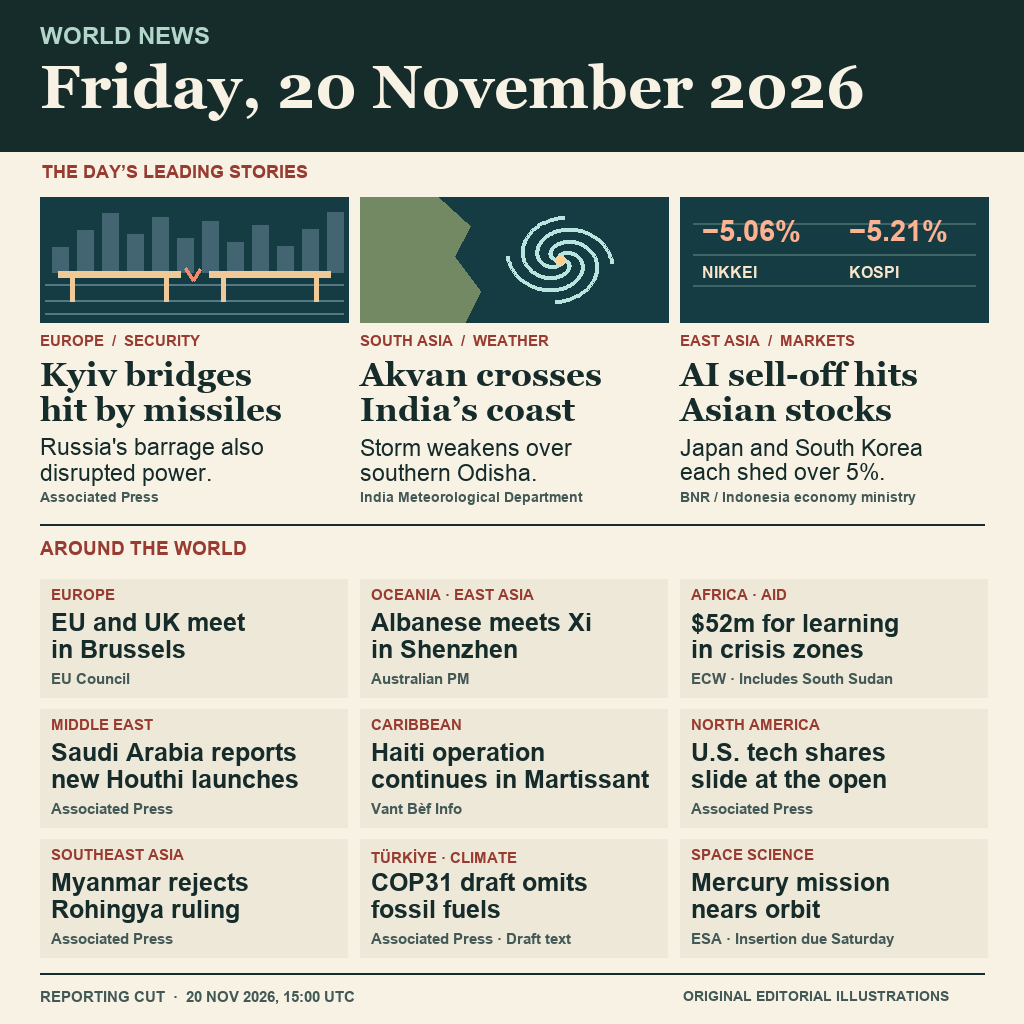
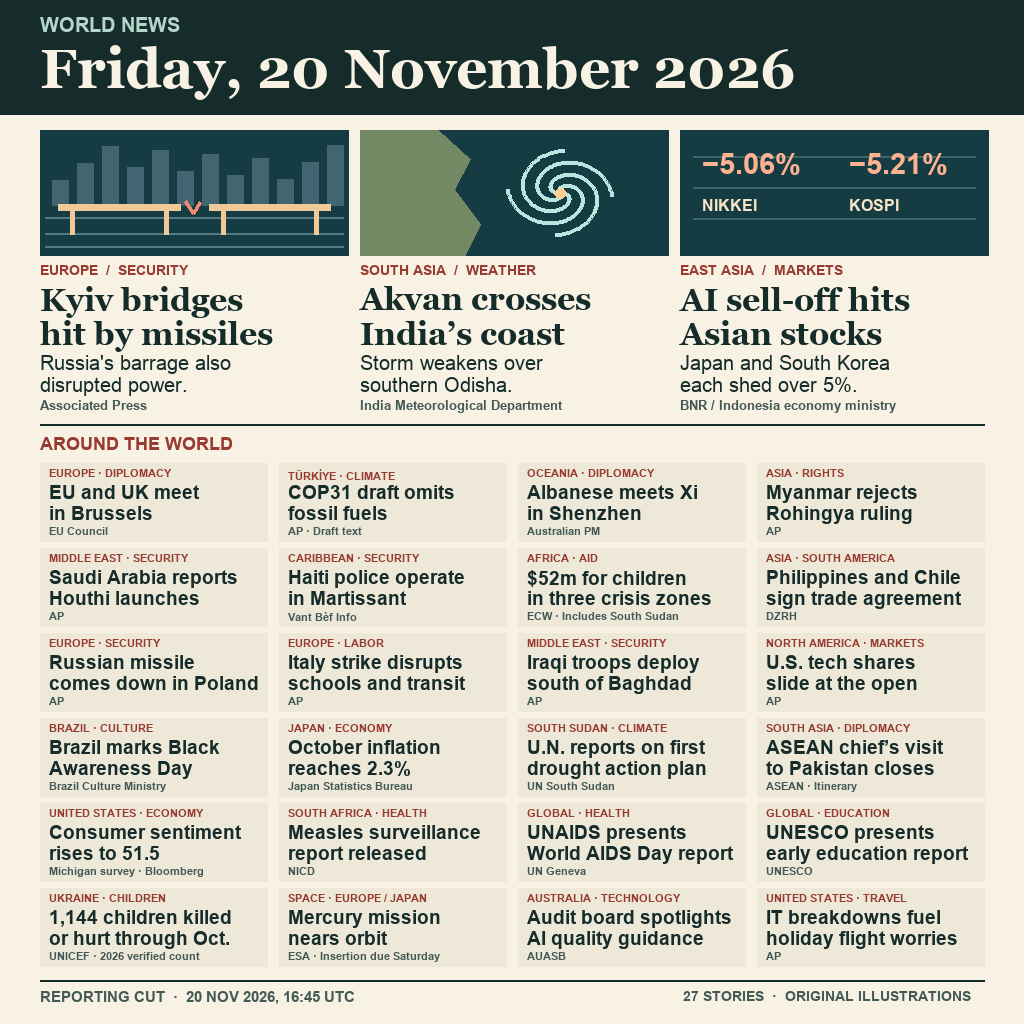
Expand the illustrated daily edition to 27 sourced stories

diff --git a/render.py b/render.py
@@ -75,39 +75,53 @@ leads = [
 ]
 
 briefs = [
-    ("EUROPE", ["EU and UK meet", "in Brussels"], "EU Council"),
-    ("OCEANIA · EAST ASIA", ["Albanese meets Xi", "in Shenzhen"], "Australian PM"),
-    ("AFRICA · AID", ["$52m for learning", "in crisis zones"], "ECW · Includes South Sudan"),
-    ("MIDDLE EAST", ["Saudi Arabia reports", "new Houthi launches"], "Associated Press"),
-    ("CARIBBEAN", ["Haiti operation", "continues in Martissant"], "Vant Bèf Info"),
-    ("NORTH AMERICA", ["U.S. tech shares", "slide at the open"], "Associated Press"),
-    ("SOUTHEAST ASIA", ["Myanmar rejects", "Rohingya ruling"], "Associated Press"),
-    ("TÜRKİYE · CLIMATE", ["COP31 draft omits", "fossil fuels"], "Associated Press · Draft text"),
-    ("SPACE SCIENCE", ["Mercury mission", "nears orbit"], "ESA · Insertion due Saturday"),
+    ("EUROPE · DIPLOMACY", ["EU and UK meet", "in Brussels"], "EU Council"),
+    ("TÜRKİYE · CLIMATE", ["COP31 draft omits", "fossil fuels"], "AP · Draft text"),
+    ("OCEANIA · DIPLOMACY", ["Albanese meets Xi", "in Shenzhen"], "Australian PM"),
+    ("ASIA · RIGHTS", ["Myanmar rejects", "Rohingya ruling"], "AP"),
+    ("MIDDLE EAST · SECURITY", ["Saudi Arabia reports", "Houthi launches"], "AP"),
+    ("CARIBBEAN · SECURITY", ["Haiti police operate", "in Martissant"], "Vant Bèf Info"),
+    ("AFRICA · AID", ["$52m for children", "in three crisis zones"], "ECW · Includes South Sudan"),
+    ("ASIA · SOUTH AMERICA", ["Philippines and Chile", "sign trade agreement"], "DZRH"),
+    ("EUROPE · SECURITY", ["Russian missile", "comes down in Poland"], "AP"),
+    ("EUROPE · LABOR", ["Italy strike disrupts", "schools and transit"], "AP"),
+    ("MIDDLE EAST · SECURITY", ["Iraqi troops deploy", "south of Baghdad"], "AP"),
+    ("NORTH AMERICA · MARKETS", ["U.S. tech shares", "slide at the open"], "AP"),
+    ("BRAZIL · CULTURE", ["Brazil marks Black", "Awareness Day"], "Brazil Culture Ministry"),
+    ("JAPAN · ECONOMY", ["October inflation", "reaches 2.3%"], "Japan Statistics Bureau"),
+    ("SOUTH SUDAN · CLIMATE", ["U.N. reports on first", "drought action plan"], "UN South Sudan"),
+    ("SOUTH ASIA · DIPLOMACY", ["ASEAN chief’s visit", "to Pakistan closes"], "ASEAN · Itinerary"),
+    ("UNITED STATES · ECONOMY", ["Consumer sentiment", "rises to 51.5"], "Michigan survey · Bloomberg"),
+    ("SOUTH AFRICA · HEALTH", ["Measles surveillance", "report released"], "NICD"),
+    ("GLOBAL · HEALTH", ["UNAIDS presents", "World AIDS Day report"], "UN Geneva"),
+    ("GLOBAL · EDUCATION", ["UNESCO presents", "early education report"], "UNESCO"),
+    ("UKRAINE · CHILDREN", ["1,144 children killed", "or hurt through Oct."], "UNICEF · 2026 verified count"),
+    ("SPACE · EUROPE / JAPAN", ["Mercury mission", "nears orbit"], "ESA · Insertion due Saturday"),
+    ("AUSTRALIA · TECHNOLOGY", ["Audit board spotlights", "AI quality guidance"], "AUASB"),
+    ("UNITED STATES · TRAVEL", ["IT breakdowns fuel", "holiday flight worries"], "AP"),
 ]
 
-draw.rectangle((0, 0, 1024, 151), fill=ink)
-label(40, 27, "WORLD NEWS", 24, "#b2d7ca")
-label(40, 62, "Friday, 20 November 2026", 60, paper, "Georgia Bold")
-label(42, 165, "THE DAY’S LEADING STORIES", 18, red)
+draw.rectangle((0, 0, 1024, 114), fill=ink)
+label(40, 17, "WORLD NEWS", 20, "#b2d7ca")
+label(40, 45, "Friday, 20 November 2026", 55, paper, "Georgia Bold")
 for i, (region, art, headline, detail, source) in enumerate(leads):
     x = 40 + i * 320
-    scene(x, 197, art)
-    label(x, 335, region, 15, red)
-    lines(x, 361, headline, 33, 305, face="Georgia Bold")
-    lines(x, 438, detail, 23, 305, face="Arial")
-    label(x, 492, source, 14, muted)
+    scene(x, 130, art)
+    label(x, 265, region, 14, red)
+    lines(x, 286, headline, 32, 305, face="Georgia Bold")
+    lines(x, 355, detail, 20, 305, face="Arial")
+    label(x, 400, source, 13, muted)
 
-draw.line((40, 524, 984, 524), fill=ink, width=2)
-label(40, 541, "AROUND THE WORLD", 19, red)
+draw.line((40, 424, 984, 424), fill=ink, width=2)
+label(40, 437, "AROUND THE WORLD", 18, red)
 for i, (region, headline, source) in enumerate(briefs):
-    x, y = 40 + i%3*320, 579 + i//3*130
-    draw.rectangle((x, y, x+307, y+118), fill="#eee8d9")
-    label(x+11, y+10, region, 15, red)
-    lines(x+11, y+34, headline, 25, 287)
-    label(x+11, y+94, source, 15, muted)
+    x, y = 40 + i%4*239, 463 + i//4*85
+    draw.rectangle((x, y, x+227, y+78), fill="#eee8d9")
+    label(x+9, y+6, region, 11, red)
+    lines(x+9, y+22, headline, 19, 210)
+    label(x+9, y+64, source, 11, muted)
 
-draw.line((40, 973, 984, 973), fill=ink, width=2)
-label(40, 991, "REPORTING CUT  ·  20 NOV 2026, 15:00 UTC", 15, muted)
-label(683, 991, "ORIGINAL EDITORIAL ILLUSTRATIONS", 14, muted)
+draw.line((40, 980, 984, 980), fill=ink, width=2)
+label(40, 991, "REPORTING CUT  ·  20 NOV 2026, 16:45 UTC", 15, muted)
+label(683, 991, "27 STORIES  ·  ORIGINAL ILLUSTRATIONS", 14, muted)
 canvas.save(Path(__file__).with_name("edition.png"), optimize=True)

diff --git a/README.md b/README.md
@@ -4,8 +4,8 @@
 [![rank](https://make.fun/badge/news-image-20261120/tinhdowoss/news-image-20261120/rank.svg)](https://make.fun/bounty/news-image-20261120/leaderboard?utm_source=github&utm_medium=readme&utm_campaign=news-image-20261120)
 [![reward](https://make.fun/badge/news-image-20261120/tinhdowoss/news-image-20261120/reward.svg)](https://make.fun/bounty/news-image-20261120?utm_source=github&utm_medium=readme&utm_campaign=news-image-20261120)
 
-A single illustrated front page with 12 developments across weather, conflict, markets, diplomacy,
-education and space. Reporting cutoff is 15:00 UTC on 20 November.
+A single illustrated front page with 27 developments across weather, conflict, markets, diplomacy,
+public health, culture, education and space. Reporting cutoff is 16:45 UTC on 20 November.
 
 ## Run
 
@@ -33,5 +33,20 @@ run `python3 render.py`. The runtime does not need Python or fonts.
 | Myanmar rejects the previous day's ruling | [Associated Press](https://apnews.com/article/c76dcb3f97c1077262f87e0cba01bb78) |
 | COP31 late-stage draft | [Associated Press, Friday local time in Antalya](https://apnews.com/article/a683c5c87a7ee64caf4e9257948b6e40) |
 | BepiColombo approach and insertion schedule | [ESA mission timeline](https://bepicolombo.esac.esa.int/bscs-qla/home) · [20 November coverage](https://www.aa.com.tr/en/life/bepicolombo-set-to-enter-mercury-orbit-after-8-year-journey/4132192) |
+| Philippines–Chile trade agreement | [DZRH from the APEC summit](https://www.dzrh.com.ph/post/philippines-chile-sign-free-trade-agreement-on-sidelines-of-apec-summit) |
+| Russian missile comes down in Poland | [Associated Press](https://apnews.com/article/63386266cef90907913df2b456808a4d) |
+| Italy's nationwide strike | [Associated Press](https://apnews.com/article/8a742daa7242c84d99307c1fcc864f62) |
+| Iraqi troops deploy south of Baghdad | [Associated Press](https://apnews.com/article/16c39c487a23b53b73c5eabb7f0fd57a) |
+| Black Awareness Day | [Brazil's Ministry of Culture](https://www.gov.br/cultura/pt-br/assuntos/noticias/minc-celebra-o-dia-da-consciencia-negra-com-acoes-afirmativas-e-programacao-cultural) |
+| Japan CPI | [Statistics Bureau's 20 November release](https://www.stat.go.jp/data/cpi/sokuhou/tsuki/index-z.html) |
+| South Sudan drought response | [UN South Sudan's 20 November account](https://southsudan.un.org/en/326441-when-rains-fail-and-floods-rise-south-sudan%E2%80%99s-journey-towards-climate-resilience) |
+| ASEAN chief's working visit | [ASEAN itinerary for 19–20 November](https://asean.org/secretary-general-of-asean-to-conduct-a-working-visit-to-the-islamic-republic-of-pakistan/) |
+| U.S. consumer sentiment | [Bloomberg on the final Michigan survey](https://ca.finance.yahoo.com/news/us-consumer-sentiment-rises-improved-150000834.html) |
+| South Africa measles surveillance | [National Institute for Communicable Diseases](https://www.nicd.ac.za/weekly-measles-and-rubella-situation-report-week-44-of-2026/) |
+| UNAIDS report briefing | [UN Geneva, 20 November](https://www.unognewsroom.org/story/en/3330/un-geneva-press-briefing-20-november-2026) |
+| Early education report | [UNESCO launch](https://www.unesco.org/en/articles/launch-2026-global-report-early-childhood-care-and-education-unesco?hub=701) |
+| Child casualties in Ukraine | [UNICEF's 20 November statement](https://www.unicef.org/media/press-releases) |
+| AI quality guidance | [Australian Auditing and Assurance Standards Board](https://www.auasb.gov.au/news/ai-quality-management-guides/) |
+| U.S. holiday air travel | [Associated Press](https://apnews.com/article/43fd1d097a7ebcb8c1c583952bb9efef) |
 
 Built by an AI coding agent for the [make.fun news-image bounty](https://make.fun/bounty/news-image-20261120). MIT license.
